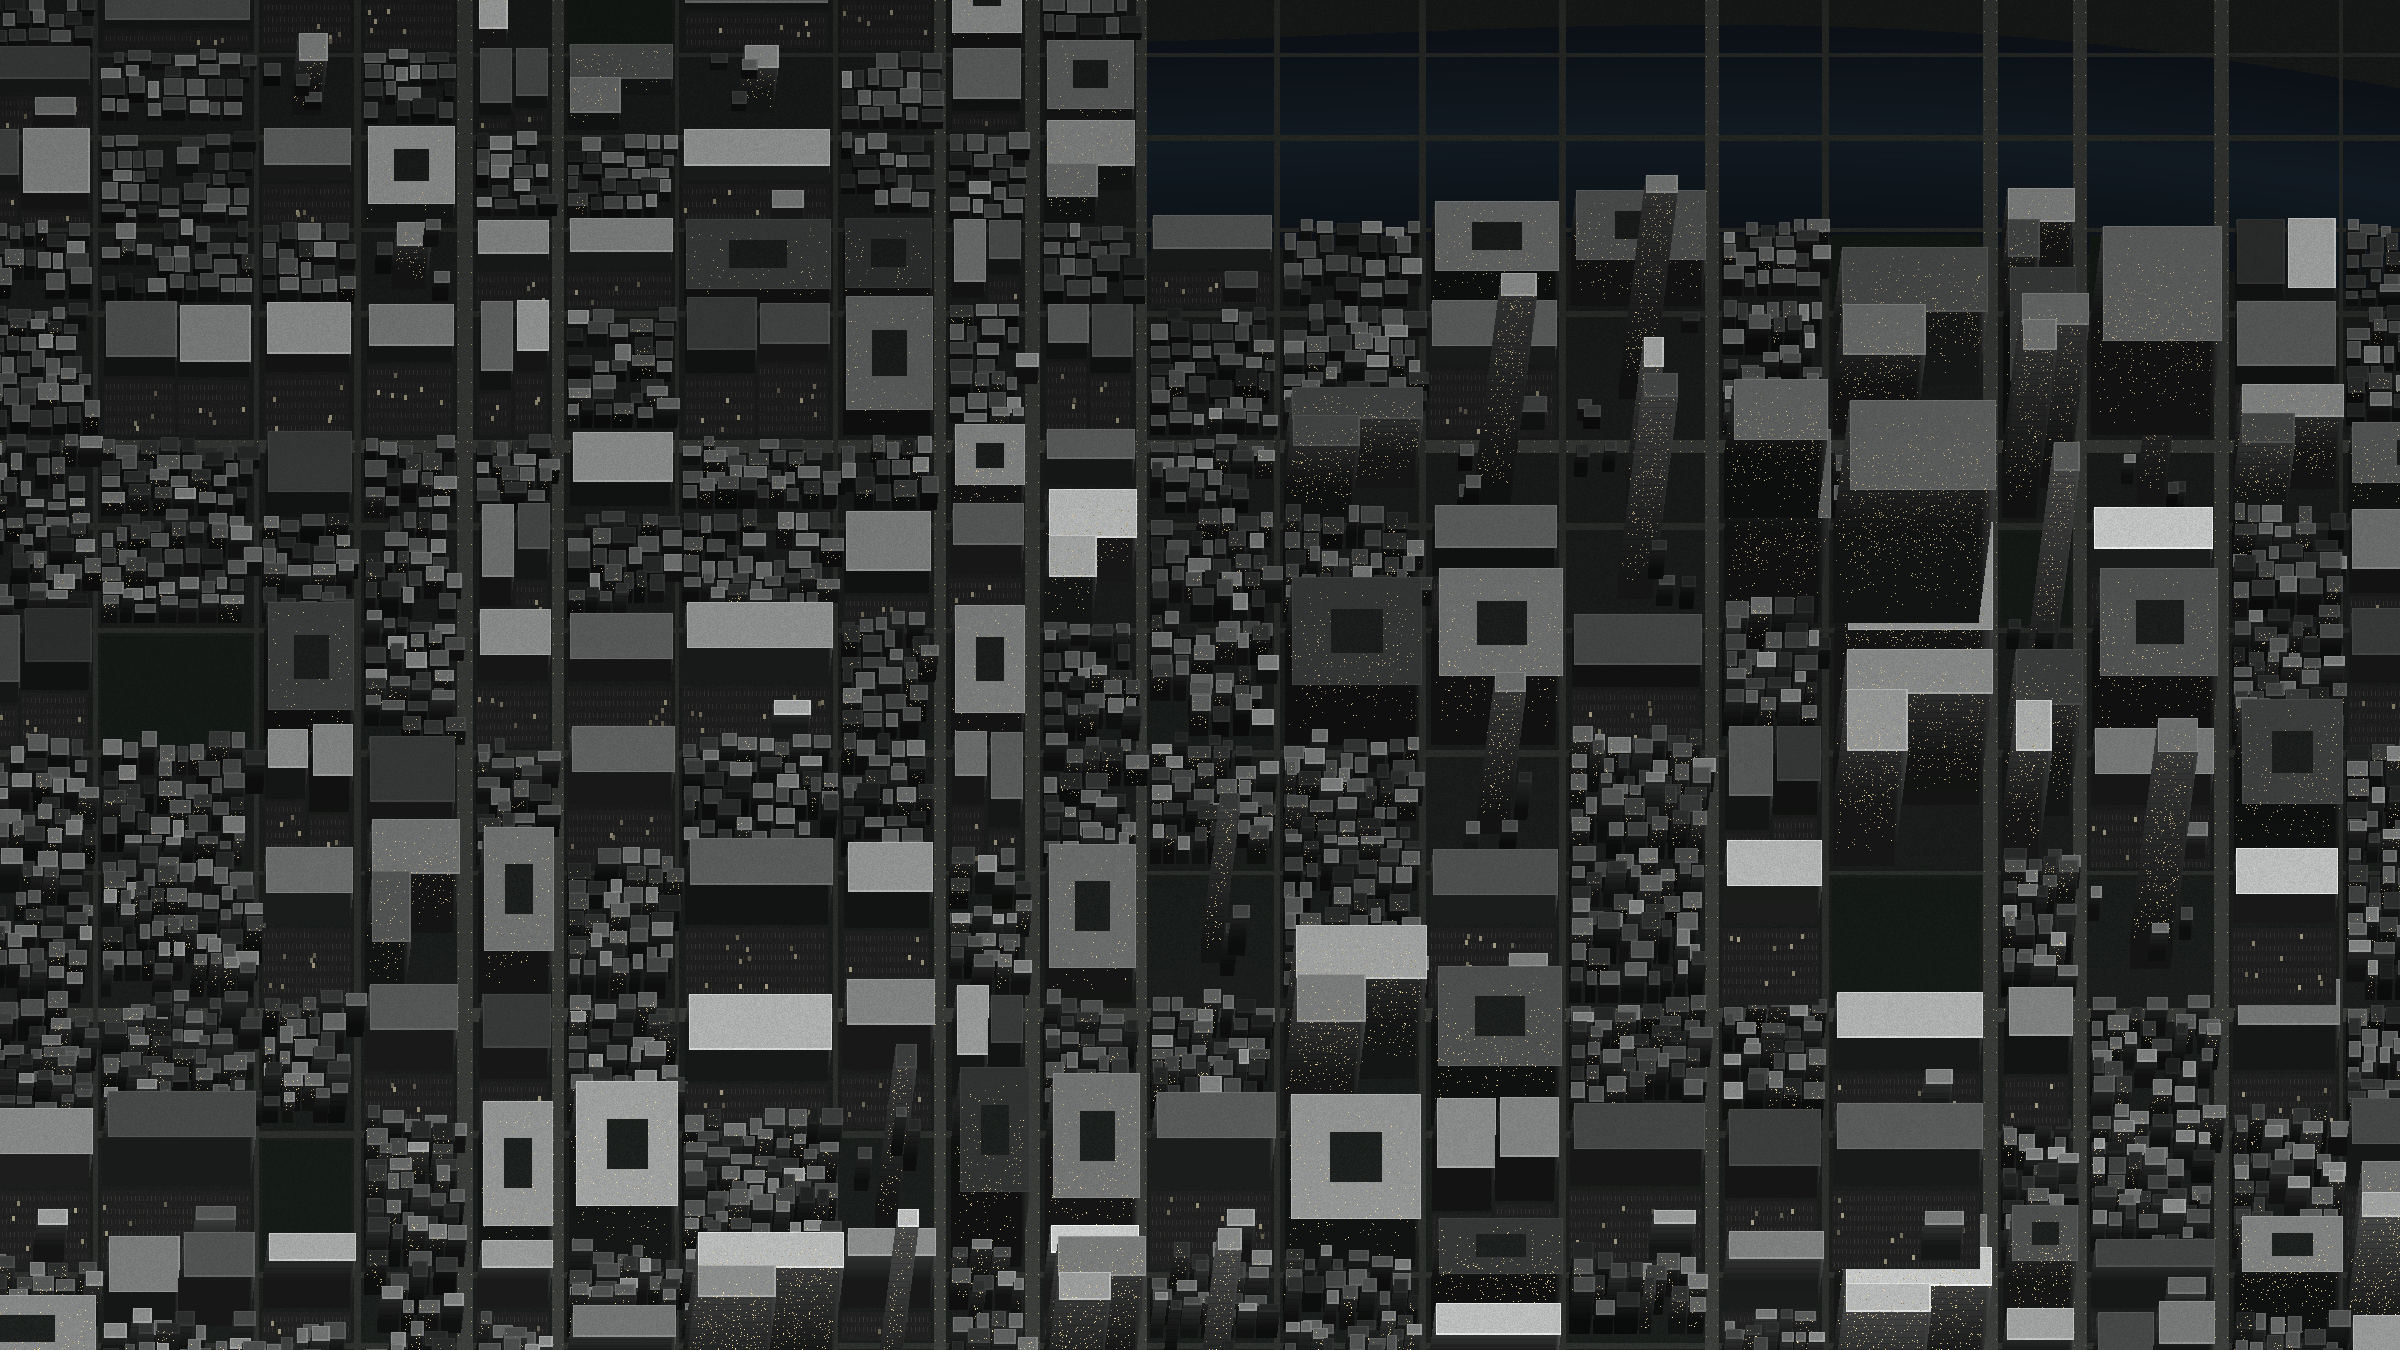
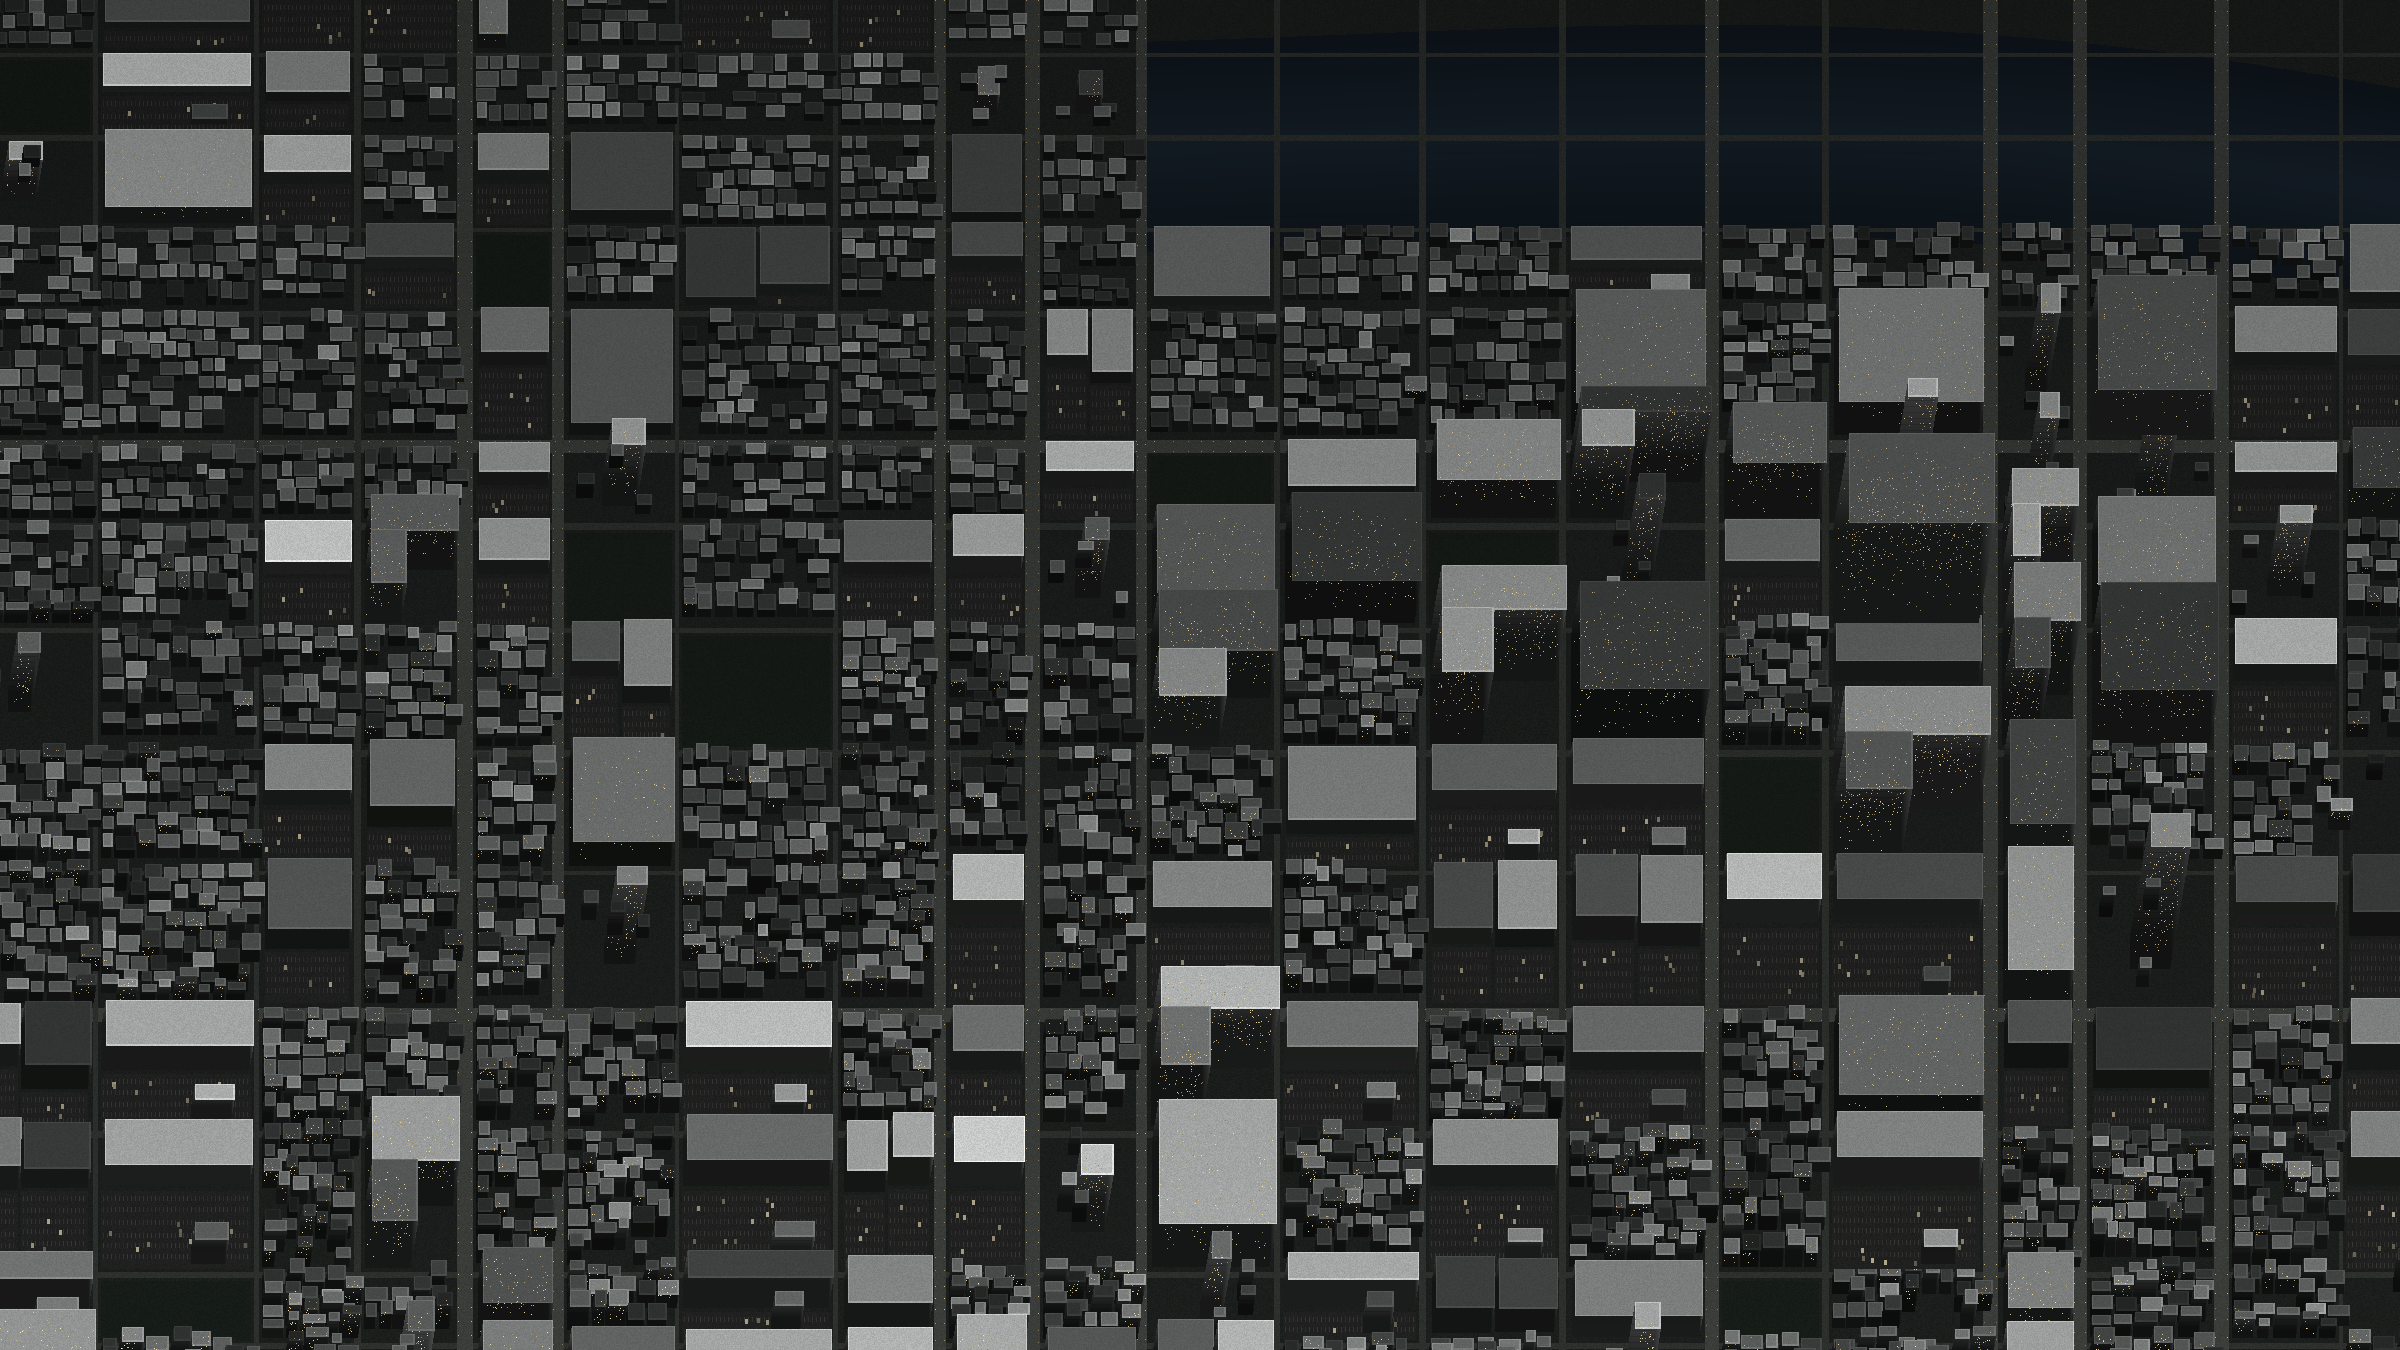
Clean the aerial up, and rule the seams between sections
THE GREEN DOTS ARE GONE, along with the config and styles behind them.

THE STREAKS WERE THE TILT. At -2.80 anything tall swept several times its
own footprint and stopped reading as a facade: those thin slivers were
buildings, not glitches. Pulled back to -1.90, which is still twice the
lean the frame started with, and capped every mass at a bit over twice its
own footprint so no single building can scratch across the image. Longest
run in the core went from 106px to 64px. Say the word and I will push the
lean back out, but that is the trade.

COURTYARDS WERE THE OTHER ONE. At this scale a dark rectangle inside a
pale roof reads as a hole punched through the building rather than as a
light well. Removed.

AND THE PAGE HAS SEAMS NOW. It is one long dark field, so a section
ending and the next beginning was carried entirely by whitespace, which on
a tall screen reads as a gap rather than as a break. Six hairlines at the
content width, the same device the thesis page already uses, hidden from
assistive tech because the heading under each one already says a new
section has begun.

Street labels re-checked against the new render: all four back to 100%
road under the full length of the name.

diff --git a/src/components/hero/HeroAerial.tsx b/src/components/hero/HeroAerial.tsx
@@ -3,9 +3,7 @@ import {
   HERO_AERIAL_H,
   HERO_AERIAL_SRC,
   HERO_AERIAL_W,
-  HERO_HIGHLIGHTS,
   HERO_STREETS,
-  type Highlight,
   type StreetLabel,
 } from "@/lib/hero-portfolio";
 
@@ -122,15 +120,9 @@ export function HeroAerial() {
              here that has to stay legible rather than dissolve. They say the
              frame is a place with addresses, which is what makes the
              properties in it read as real assets. */}
-      {/* 3 · the properties, and 4 · the street names.
-
-             Both sit ABOVE the gradient. Under it they were dimmed by the
-             same fade that dims the buildings, which sounds right and reads
-             as smudged: a mark that says "this one is remembered" has to be
-             legible or it is not saying anything. Every one of them is placed
-             where the image is genuinely visible, so nothing floats. */}
+      {/* 3 · the street names, above the gradient because they are the one
+             thing here that has to stay legible rather than dissolve. */}
       <CoverBox>
-        <HighlightOverlay />
         <StreetOverlay />
       </CoverBox>
     </div>
@@ -158,64 +150,6 @@ function CoverBox({ children }: { children: React.ReactNode }) {
       >
         {children}
       </div>
-    </div>
-  );
-}
-
-/* Percentage geometry only, so one set of coordinates serves every breakpoint
-   and every crop. Renders nothing at all when no properties are configured. */
-function HighlightOverlay() {
-  if (HERO_HIGHLIGHTS.length === 0) return null;
-  return (
-    <div className="absolute inset-0">
-      {HERO_HIGHLIGHTS.map((p, i) => (
-        <HighlightShape key={p.id} property={p} index={i} />
-      ))}
-    </div>
-  );
-}
-
-/* A POINT OF LIGHT. NOTHING ELSE.
-
-   There used to be a hairline rectangle around each roof as well. It was
-   accurate, measured to within a pixel of the roof it outlined, and it still
-   looked wrong: at this camera angle a building sweeps a long way down from
-   its roof to its footprint, so a rectangle capping the top reads as a box
-   floating beside a building rather than around one. Any fix for that meant
-   either flattening the tilt or wrapping the whole leaning silhouette, and
-   both cost more than the outline was worth.
-
-   The mast that used to hang above it went the same way and for the same
-   reason: a line drawn straight up from a building that is already leaning
-   is a second thing to not quite agree with the first.
-
-   A point has no edges to disagree with. It sits on a roof and says this one
-   is remembered, which was the entire job. */
-function HighlightShape({
-  property: p,
-  index,
-}: {
-  property: Highlight;
-  index: number;
-}) {
-  return (
-    <div
-      className={[
-        "hero-highlight absolute",
-        p.hideBelowLg ? "hidden lg:block" : "",
-      ].join(" ")}
-      /* Dead centre of the roof, as a percentage of the image and never of
-         the viewport, or the marker drifts off its building the moment the
-         window changes shape. */
-      style={{
-        left: `${p.x + p.w / 2}%`,
-        top: `${p.y + p.h / 2}%`,
-        /* they arrive one after another rather than all at once (§9) */
-        animationDelay: `${900 + index * 260}ms`,
-      }}
-    >
-      {/* a ring, so the point reads on a bright roof as well as a dark one */}
-      <div className="hero-highlight-pin absolute left-0 top-0 h-[6px] w-[6px] -translate-x-1/2 -translate-y-1/2 rounded-full bg-vera-400 ring-[3px] ring-vera-400/20" />
     </div>
   );
 }

diff --git a/src/lib/hero-portfolio.ts b/src/lib/hero-portfolio.ts
@@ -16,54 +16,16 @@
    alt and is marked decorative. */
 export const HERO_AERIAL_SRC = "/hero/portfolio-aerial.png";
 
-/* The aerial's own aspect, which the overlays have to reproduce exactly.
-   The highlight and street coordinates are percentages OF THE IMAGE, but the
-   image is object-fit: cover and therefore cropped, so the overlays are laid
-   out inside a box that replicates that crop. Get this wrong and every
-   outline drifts off its building the moment the viewport changes shape. */
+/* The aerial's own aspect, which the street overlay has to reproduce exactly.
+   Its coordinates are percentages OF THE IMAGE, but the image is
+   object-fit: cover and therefore cropped, so the overlay is laid out inside
+   a box that replicates that crop. Get this wrong and every label drifts off
+   its road the moment the viewport changes shape. */
 export const HERO_AERIAL_W = 2400;
 export const HERO_AERIAL_H = 1350;
 
 /* Crop alignment lives in HeroAerial, next to the overlay box that has to
    match it exactly. Splitting the two across files is how they drift. */
-
-export type HighlightType =
-  | "retail"
-  | "mixed-use"
-  | "residential"
-  | "office"
-  | "industrial"
-  | "institutional";
-
-/* One marked property. x/y/w/h are the roof, which the marker hangs over;
-   `hideBelowLg` drops a property from the mobile crop, where only three or
-   four survive. */
-export type Highlight = {
-  id: string;
-  type: HighlightType;
-  /** left edge, % */ x: number;
-  /** top edge, % */ y: number;
-  /** % of image width */ w: number;
-  /** % of image height */ h: number;
-  hideBelowLg?: boolean;
-};
-
-/* FIVE MARKED ASSETS, FIVE CLASSES.
-
-   The point of the variety is that a portfolio is not a set of office towers.
-   A grocery-anchored plaza and a logistics shed say "these are real assets
-   somebody owns" in a way five glass towers never would.
-
-   Nothing is marked left of about 70%, because the left fade is still close
-   to opaque there and a marker with no visible building under it reads as a
-   bug rather than as restraint. */
-export const HERO_HIGHLIGHTS: Highlight[] = [
-  { id: "residences", type: "residential", x: 72.25, y: 28.11, w: 3.92, h: 4.52 },
-  { id: "office", type: "office", x: 77.09, y: 29.65, w: 6.08, h: 6.67, hideBelowLg: true },
-  { id: "tower", type: "mixed-use", x: 89.94, y: 53.24, w: 1.67, h: 2.52 },
-  { id: "plaza", type: "retail", x: 71.99, y: 62.25, w: 3.96, h: 3.41 },
-  { id: "logistics", type: "industrial", x: 83.71, y: 73.11, w: 2.67, h: 3.60 },
-];
 
 /* Street names, so the frame reads as a place rather than as a texture.
 
@@ -90,6 +52,6 @@ export const HERO_STREETS: StreetLabel[] = [
   { name: "Market Street", along: 71.33, at: 40 },
   /* for anyone who actually reads the map */
   { name: "Memory Lane", along: 82.94, at: 56, hideBelowLg: true },
-  { name: "Harbour Street", along: 86.67, at: 44 },
+  { name: "Harbour Street", along: 86.67, at: 56 },
   { name: "Port Street", along: 92.56, at: 34, hideBelowLg: true },
 ];

diff --git a/src/app/page.tsx b/src/app/page.tsx
@@ -12,17 +12,41 @@ import { Footer } from "@/components/Footer";
    Provenance system. Provenance over time, FAQ and the closing CTA are later
    passes, each with its own review. */
 
+/* A hairline between sections.
+
+   The page is one long dark field, so a section ending and the next beginning
+   was carried entirely by whitespace, and on a tall screen that reads as a
+   gap rather than as a break. One rule at the content width is the same
+   device the thesis page already uses, which is why it is a hairline and not
+   a band: it should mark the seam, not become a feature.
+
+   Decorative, so it is hidden from assistive tech: the heading underneath it
+   already says a new section has begun. */
+function SectionRule() {
+  return (
+    <div className="track" aria-hidden>
+      <hr className="rule-full" />
+    </div>
+  );
+}
+
 export default function Home() {
   return (
     <>
       <Navigation />
       <main>
         <Hero />
+        <SectionRule />
         <ProblemSection />
+        <SectionRule />
         <MeetVera />
+        <SectionRule />
         <HowVeraWorks />
+        <SectionRule />
         <ProvenanceSystem />
+        <SectionRule />
         <FaqSection />
+        <SectionRule />
         <ClosingCta />
       </main>
       {/* THE DESCENT — hard edge, full bleed, no fade and no gradient (§6.3) */}

diff --git a/src/app/globals.css b/src/app/globals.css
@@ -252,21 +252,10 @@
     hero-aerial-drift 32s cubic-bezier(0.33, 0, 0.15, 1) both;
 }
 
-/* Property outlines arrive one after another rather than together, then hold.
-   The marker keeps a slow pulse; nothing else moves. */
+/* Street names fade in once the image has settled. */
 @keyframes hero-highlight-in {
   from { opacity: 0; }
   to   { opacity: 1; }
-}
-.hero-highlight {
-  animation: hero-highlight-in 900ms cubic-bezier(0.22, 1, 0.36, 1) both;
-}
-@keyframes hero-highlight-pin {
-  0%, 100% { opacity: 1; }
-  50%      { opacity: 0.45; }
-}
-.hero-highlight-pin {
-  animation: hero-highlight-pin 4.2s ease-in-out infinite;
 }
 
 /* Street names settle in after the properties, so the frame resolves in one
